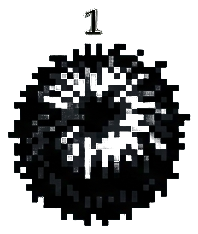
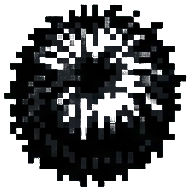
fix: おくりもの画像から数字・キラキラなど浮遊コンポーネントを除去 (v1.18.2)
- 12 枚のおくりもの PNG を再クリーンアップ
  - 8 連結成分解析 (alpha > 50) を実施
  - 最大成分の 20% 未満のコンポーネントを全削除（透明化）
  - 上部に残っていた番号（1〜12）と、ステッキ右下のキラキラを除去
  - 残った 1 つのコンポーネント周囲を 4px パディングで再クロップ
- 主アイテムには影響なし、ファイルサイズも軽くなる
- APP_VERSION 1.18.1 → 1.18.2、package.json も同期

diff --git a/src/App.tsx b/src/App.tsx
@@ -111,7 +111,7 @@ type TodoSet = { id: string; name: string; items: TodoSetItem[]; createdAt: numb
 //   patch: バグ修正 / minor: 機能追加 / major: 破壊的変更
 //   PWA (vite-plugin-pwa) がビルドごとにキャッシュを自動更新する
 // ─────────────────────────────────────────────────────────────
-const APP_VERSION = '1.18.1';
+const APP_VERSION = '1.18.2';
 
 // ─────────────────────────────────────────────────────────────
 // localStorage helpers
